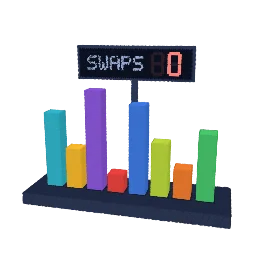
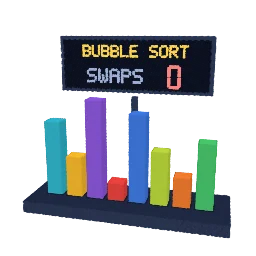
Lane AI: readable text at small sizes, notes and plan for the owner's fixes
Claude-Session: https://claude.ai/code/session_01LeMboLgns1Q6xDzQNMfkp4

diff --git a/src/packs/computing.js b/src/packs/computing.js
@@ -215,7 +215,7 @@ const textWidth = (str) => str.length * 6 - 1;
 
 // A line of text facing +Z, centred on `at`, `px` the size of one font pixel.
 // Dense, keep-coloured splats, so it stays crisp at phone size.
-function text(k, str, at, px, color, { weight = 10, align = "center", ...rest } = {}) {
+function text(k, str, at, px, color, { weight = 4, align = "center", ...rest } = {}) {
   const W = textWidth(str) * px;
   const H = 7 * px;
   const x0 = align === "left" ? at[0] : align === "right" ? at[0] - W : at[0] - W / 2;
@@ -1744,7 +1744,7 @@ function buildLoop3D(k) {
           normal: () => [0, 0, 1],
         }),
         {
-          weight: 5,
+          weight: 3.5,
           flat: 0.2,
           pattern: false,
           kind: "token",
@@ -2515,7 +2515,7 @@ export const RECIPES = {
               normal: () => [0, 0, 1],
             }),
             {
-              weight: 5,
+              weight: 3.5,
               flat: 0.2,
               pattern: false,
               kind: "token",
@@ -2790,7 +2790,9 @@ export const RECIPES = {
       title: "Your own words",
       placeholder: "king - man + woman",
       button: "Add them",
-      note: "Type A - B + C with three common English words (24,000 are built in, from GloVe). It works out A − B + C over all 50 dimensions and shows the nearest of the 10,000 most common words, with the runner-up in gray.",
+      fileButton: "Open a text file…",
+      accept: ".txt",
+      note: "Type A - B + C with three common English words (24,000 are built in, from GloVe). It works out A − B + C over all 50 dimensions and shows the nearest of the 10,000 most common words, with the runner-up in gray. A text file with the sum in it works too.",
       async read(text) {
         await loadWords();
         const [a, b, c] = parseSum(text);
@@ -3026,8 +3028,8 @@ export const RECIPES = {
           keep(Math.abs(c.p[1] - cy - 0.12) > ph / 2 - 0.03 || Math.abs(c.p[0]) > pw / 2 - 0.03 ? BOARD_RIM : "#0b1020"), // prettier-ignore
       });
       k.add(k.box(0.05, 1.1, 0.05), { pos: [0, 0.55, -0.3], flat: 0.3, pattern: false, color: () => keep(BOARD_RIM) }); // prettier-ignore
-      text(k, SORT.names[algo], [0, cy + 0.27, -0.27], 0.018, "#ffd34d");
-      text(k, algo === "merge" ? "MOVES" : "SWAPS", [-0.22, cy, -0.27], 0.022, "#9fb0d6");
+      text(k, SORT.names[algo], [0, cy + 0.27, -0.255], 0.018, "#ffd34d");
+      text(k, algo === "merge" ? "MOVES" : "SWAPS", [-0.22, cy, -0.255], 0.022, "#9fb0d6");
       sevenSeg(k, [0.26, cy, -0.27], 0.22, 8);
       sevenSeg(k, [0.44, cy, -0.27], 0.22, 15);
     },

diff --git a/docs/TOY-PLAN.md b/docs/TOY-PLAN.md
@@ -1864,6 +1864,8 @@ Proposals below are suggestions; the owner may change them.
   - Improved: AI: inputs X1 and X3 light and send pulses along wires as thick as their weights; the
     gauge fills to under the threshold and the lamp flashes red. The two live wires thicken (it
     learns), the pulses go again, the gauge passes the threshold and the lamp snaps on gold (4 s).
+    Owner's review: a 3D version too, so a View option adds a 3D model (bulbs on posts, a glass
+    gauge, an output bulb on a stand).
   - Sound: A blip for each input, a click as the lamp decides, a rising tone when it learns.
 - **Neural network** (`neural-network`). Now: tap: Forward and back. Plan: keep.
   - Owner: Approved on the Toy Ideas page (lane AI).
@@ -1872,7 +1874,8 @@ Proposals below are suggestions; the owner may change them.
     weights shift a little (4.5 s).
   - Improved: AI: a 3-4-2 network with a real forward pass: yellow pulses run layer by layer and
     each neuron glows as bright as it fires; red pulses run back and the wires thicken or thin a
-    little, easing back at the end (4.5 s).
+    little, easing back at the end (4.5 s). Owner's review: a View option adds a 3D model (glass
+    neurons in rings on a stand, pulses through the air).
   - Sound: A rising arpeggio going forward, a falling one coming back.
 - **Convolutional network** (`cnn`). Now: tap: Read the digit. Plan: keep.
   - Owner: Approved on the Toy Ideas page (lane AI).
@@ -1881,7 +1884,8 @@ Proposals below are suggestions; the owner may change them.
     with 7 on top (5 s).
   - Improved: AI: a gold 3×3 filter slides over a handwritten 7, stamping a 5×5 feature map tile by
     tile (a real convolution); the tiles slide together into a 3×3 pooled map and the digit scores
-    rise, 7 on top (5 s).
+    rise, 7 on top (5 s). Owner's review: a View option adds a 3D model (slabs of cubes, the
+    filter's receptive field as lines to the tile it stamps).
   - Sound: A tick at each step of the filter, a chime at the answer.
 - **Recurrent network** (`rnn`). Now: tap: Read a sentence. Plan: keep.
   - Owner: Approved on the Toy Ideas page (lane AI).
@@ -1890,7 +1894,8 @@ Proposals below are suggestions; the owner may change them.
     option) shows its three gates opening and closing like shutters (4.5 s).
   - Improved: AI: THE, CAT and SAT rise into the cell one at a time; the orb (the hidden state)
     takes on each word's color mixed with what it carried and runs round the loop. The LSTM style
-    adds forget, input and output gates whose slats turn like shutters (4.5 s).
+    adds forget, input and output gates whose slats turn like shutters (4.5 s). Owner's review: a
+    View option adds a 3D model (a cell with lit edges, the loop arching over it on a slant).
   - Sound: A pulse for each word, the loop humming higher as the memory builds.
 - **Transformer** (`transformer`). Now: tap: Predict the next word. Plan: keep.
   - Owner: Approved on the Toy Ideas page (lane AI).
@@ -1899,21 +1904,24 @@ Proposals below are suggestions; the owner may change them.
     the stack of layers, and a new token tile appears at the end of the row (5 s).
   - Improved: AI: two heads of attention arcs (cyan and magenta, thicker where stronger) draw
     between THE CAT SAT ON at each of two layers; the tiles rise through the feed-forward blocks,
-    and MAT drops into the end of the row (5 s).
+    and MAT drops into the end of the row (5 s). A View option adds a 3D model (word blocks,
+    box-outline blocks, arcs upright and leaning back).
   - Sound: A shimmering chord for each layer, a pop for the new token.
 - **Looped transformer** (`looped-transformer`). Now: tap: Loop until it's sure. Plan: keep.
   - Owner: Approved on the Toy Ideas page (lane AI).
   - Effect: One transformer block with a track looping through it: the row of tokens rides round the
     loop several times, going from blurry to sharp on each pass, until the answer settles (5 s).
   - Improved: AI: five tiles ride three laps through one block; each pass sharpens every mark one
-    step (noise, a coarse mosaic, nearly right, exact) until 3 + 4 = 7 settles (5 s).
+    step (noise, a coarse mosaic, nearly right, exact) until 3 + 4 = 7 settles (5 s). A View option
+    adds a 3D model (the loop leans back through a box-outline block).
   - Sound: A tone that climbs a step on each loop, then resolves.
 - **Diffusion model** (`diffusion-model`). Now: tap: Denoise. Plan: keep.
   - Owner: Approved on the Toy Ideas page (lane AI).
   - Effect: A cloud of random specks clears step by step into a crisp small toy (a rubber duck)
     while a step counter runs down from 50 to 0; then the noise washes back over it (5 s).
   - Improved: AI: a cloud of specks clears in ten steps into a rubber duck while the STEP counter
-    runs from 50 to 0; then the noise washes back (5 s).
+    runs from 50 to 0; then the noise washes back (5 s). Owner's review: a View option adds a 3D
+    model (a round cloud clears into a duck over a stand).
   - Sound: A white-noise hiss that settles into a clean chord.
 - **Gradient descent** (`gradient-descent`). Now: tap: Roll downhill. Plan: keep.
   - Owner: Approved on the Toy Ideas page (lane AI).
@@ -1924,12 +1932,13 @@ Proposals below are suggestions; the owner may change them.
     just right, it overshoots and settles in the valley; too low, it creeps; too high, it bounces
     wall to wall (4.5 s).
   - Sound: A rolling tone that falls in pitch as the loss drops.
-- **Word vectors** (`word-vectors`). Now: tap: King − man + woman. Plan: keep.
+- **Word vectors** (`word-vectors`). Now: tap: A − B + C. Plan: keep.
   - Owner: Approved on the Toy Ideas page (lane AI).
   - Effect: Word points float in 3D, each with a small sign; arrows add up, king minus man plus
     woman, and land right next to queen, which lights up (4 s).
   - Improved: AI: an arrow runs to KING, another from MAN to WOMAN, and the same step runs on from
-    KING, landing next to QUEEN, which lights up (4 s).
+    KING, landing next to QUEEN, which lights up (4 s). Owner's review: real GloVe word vectors;
+    type your own A - B + C and the nearest common word lights up.
   - Sound: Three chimes, then a bright ding at the answer.
 - **Sorting machine** (`sorting-machine`). Now: tap: Sort the bars. Plan: keep.
   - Owner: Approved on the Toy Ideas page (lane AI).
@@ -1937,7 +1946,9 @@ Proposals below are suggestions; the owner may change them.
     pieces, by bubble sort, quicksort or merge sort (an option), with a swap counter; then it
     shuffles again (5 s).
   - Improved: AI: eight bars sort by bubble sort, quicksort or merge sort, each a solid bar gliding
-    past the others, with a SWAPS (or MOVES) counter; then they shuffle back (5 s).
+    past the others, with a SWAPS (or MOVES) counter; then they shuffle back (5 s). Owner's review:
+    the algorithm's name is on the toy, and eight algorithms (insertion, selection, cocktail shaker,
+    Shell and heap sort added).
   - Sound: Each bar plays its height as a note, so you hear the sort rise into a scale.
 - **Half adder** (`half-adder`). Now: tap: Add 1 + 1. Plan: keep.
   - Owner: Approved on the Toy Ideas page (lane AI).

diff --git a/docs/handoff/AI.md b/docs/handoff/AI.md
@@ -87,6 +87,37 @@ owner's marks.
 Clips are on the Effect review page (lane record `AI`, cards `ai-<toy id>`, posted September 27,
 2026). All 11 toys are `"v": "keep"` in the plan with an `improved` entry.
 
+The owner's marks (September 27, 2026): gradient descent and half adder "good". Fixed in this PR:
+
+- **3D models** (perceptron, neural network, CNN, RNN, diffusion model: "perfect for the 2D poster
+  version; in addition I want an actual 3D version"): each has a View option, Poster (2D, the
+  default, unchanged) or 3D model. The transformer and looped transformer were marked "fix" with no
+  note; they got the same 3D view (the Operator was asked to confirm that reading).
+  - Neural network: glass neurons in rings on a round stand, the flow slanting toward you, golden
+    cores that grow as they fire, pulses through the air.
+  - Perceptron: bulbs on posts, wires through the air to a metal Σ ball, a glass gauge the sum fills
+    with an orange threshold ring, an output bulb.
+  - CNN: slabs of little cubes one behind another (picture, feature map, pooled map), the filter's
+    receptive field as four lines from its corners to the tile it stamps, score columns on a stand.
+  - RNN: a dark cell with lit edges, the loop arching over it on a slant, word blocks rising in from
+    the front; the LSTM's gates on its face.
+  - Diffusion: a round 3D cloud clears into a bigger duck over a stand; at step 0 a solid copy of
+    the duck (sorted as it stands) takes the specks' place, so it looks right from every side.
+  - Transformer: word blocks on a plinth, box-outline feed-forward blocks, head A's arcs upright and
+    head B's leaning back. Looped transformer: the loop leans back, the block is a box outline, the
+    tiles are blocks.
+- **Sorting machine**: the algorithm's name is on the panel above the counter, and five more
+  algorithms: insertion, selection, cocktail shaker, Shell and heap sort (eight in all).
+- **Word vectors**: real GloVe vectors (50 dimensions, public domain) for 24,000 common words, built
+  by `tools/word-vectors.mjs` into `assets/toys/word-vectors/words.txt` (1.7 MB, loaded only by this
+  toy). Type "A - B + C" in the Toy tab (or open a text file with it); A − B + C is worked out over
+  all 50 dimensions and the answer is the nearest of the 10,000 most common words (the runner-up
+  shows in gray). The toy shows a 3-D slice: axes along A − B and C − B (each scaled to fit, so the
+  parallelogram of arrows is exact) and the answer at its true offset from the sum on A − B's scale.
+  The default is still king − man + woman ≈ queen.
+- Text on every toy now uses a lower splat weight (4): at weight 10 the letters vanished at 320
+  pixels (PACKS.md: tiny splats vanish on small screens).
+
 What each tap does now:
 
 1. **Perceptron** (4 s): inputs X1 and X3 light (1, 0, 1) and send pulses along wires as thick as
@@ -156,6 +187,14 @@ What each tap does now:
   bubble sort only.
 
 ## For the Operator
+
+- Please confirm: the transformer and looped transformer were marked "fix" with no note. I read them
+  as the same ask as the other models (an actual 3D version) and built that; if the owner meant
+  something else, tell me.
+- Word vectors: GloVe is under the ODC PDDL (public domain), checked on the live page; credited in
+  CREDITS.md and in the toy. The word list leaves out words about violence, weapons and sex.
+- A lesson for PACKS.md: text and other small keep-coloured details need size / sqrt(weight) of
+  about 0.5 or more, or they vanish at 320 pixels (weight 10 did).
 
 - A lesson for PACKS.md 7b: tokens that glide across a flat board just in front of it disappear
   behind it until resorted; `out.resort` a few times during the glide fixes it.
